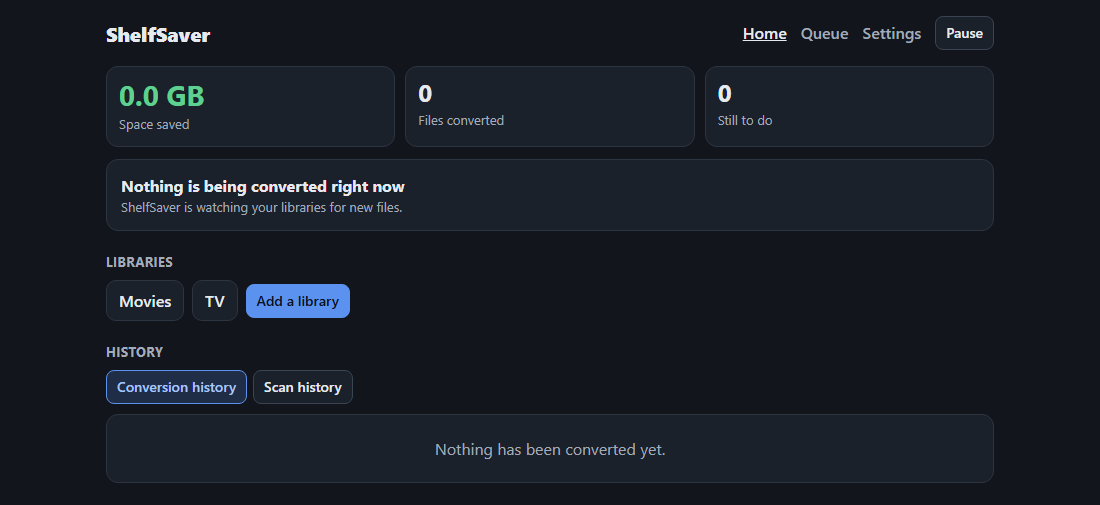
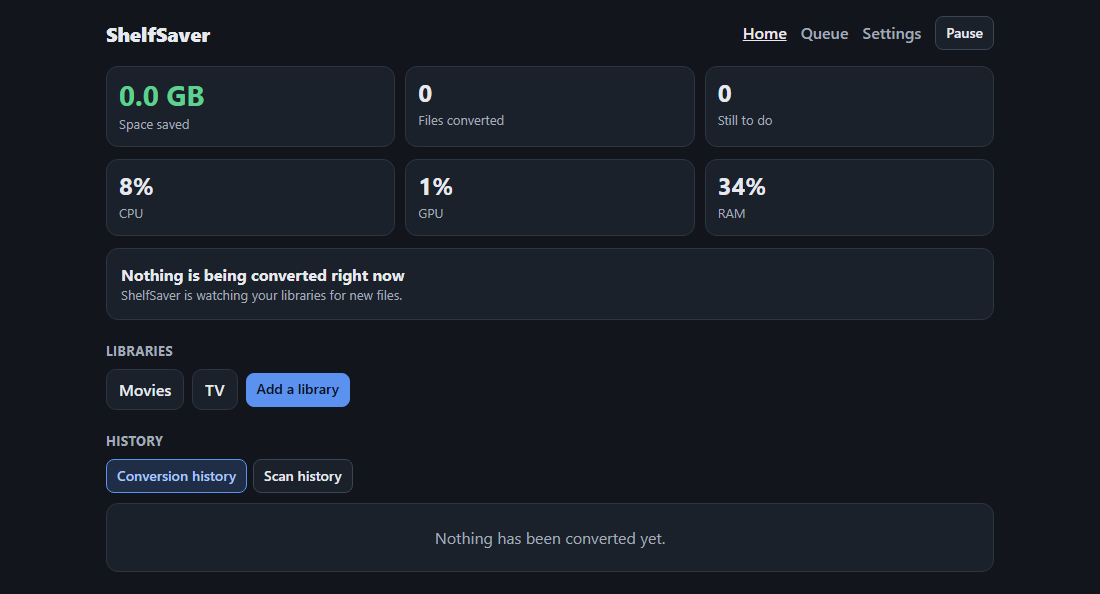
feat: show CPU, GPU and RAM use on the home page
The GPU tile shows the busier of the card and its video encoder, since
encoding barely registers as general GPU use. Update the home screenshot.

Claude-Session: https://claude.ai/code/session_01QBBJMtbGH3UxseRLgyoGMi

diff --git a/shelfsaver/web/static/index.html b/shelfsaver/web/static/index.html
@@ -31,6 +31,11 @@
     <div class="stat"><b id="stat-converted">&ndash;</b><span>Files converted</span></div>
     <div class="stat"><b id="stat-remaining">&ndash;</b><span>Still to do</span></div>
   </section>
+  <section class="stats" aria-label="This PC right now">
+    <div class="stat"><b id="stat-cpu">&ndash;</b><span>CPU</span></div>
+    <div class="stat" title="The busier of the graphics card and its video encoder"><b id="stat-gpu">&ndash;</b><span>GPU</span></div>
+    <div class="stat"><b id="stat-ram">&ndash;</b><span>RAM</span></div>
+  </section>
   <section id="now" class="card" aria-live="polite"></section>
   <h2>Libraries</h2>
   <div class="libs" id="libs"></div>

diff --git a/shelfsaver/web/static/app.js b/shelfsaver/web/static/app.js
@@ -816,7 +816,19 @@
       }, function () { /* offline: the notice is already showing */ });
     }
 
+    function drawUse(use) {
+      ['cpu', 'gpu', 'ram'].forEach(function (name) {
+        var value = use[name];
+        byId('stat-' + name).textContent = value === null || value === undefined ? '–' : value + '%';
+      });
+    }
+
+    function refreshUse() {
+      return api('GET', '/api/system').then(drawUse, function () { drawUse({}); });
+    }
+
     every(refresh);
+    every(refreshUse);
   }
 
   // ---- The queue

diff --git a/shelfsaver/system_usage.py b/shelfsaver/system_usage.py
@@ -1,0 +1,84 @@
+"""How busy this PC is right now, for the tiles on the home page."""
+from __future__ import annotations
+
+import ctypes
+import threading
+import time
+from ctypes import wintypes
+from typing import Optional
+
+from .mcp_server import _run_tool
+
+CACHE_SECONDS = 1.5  # just under the pages' refresh, so several open pages share one reading
+FIRST_CPU_SAMPLE_SECONDS = 0.2
+
+_now = time.monotonic
+
+
+class _MemoryStatus(ctypes.Structure):
+    _fields_ = [("dwLength", wintypes.DWORD), ("dwMemoryLoad", wintypes.DWORD),
+                ("ullTotalPhys", ctypes.c_ulonglong), ("ullAvailPhys", ctypes.c_ulonglong),
+                ("ullTotalPageFile", ctypes.c_ulonglong), ("ullAvailPageFile", ctypes.c_ulonglong),
+                ("ullTotalVirtual", ctypes.c_ulonglong), ("ullAvailVirtual", ctypes.c_ulonglong),
+                ("ullAvailExtendedVirtual", ctypes.c_ulonglong)]
+
+
+def ram_percent() -> Optional[int]:
+    status = _MemoryStatus()
+    status.dwLength = ctypes.sizeof(status)
+    if not ctypes.windll.kernel32.GlobalMemoryStatusEx(ctypes.byref(status)):
+        return None
+    return int(status.dwMemoryLoad)
+
+
+def gpu_percent() -> Optional[int]:
+    """The busier of the card and its video encoder: encoding barely shows as general GPU use."""
+    out = _run_tool(["nvidia-smi", "--query-gpu=utilization.gpu,utilization.encoder",
+                     "--format=csv,noheader,nounits"])
+    lines = (out or "").strip().splitlines()
+    if not lines:
+        return None
+    numbers = [int(part) for part in lines[0].split(",") if part.strip().isdigit()]
+    return max(numbers) if numbers else None
+
+
+def _cpu_times() -> Optional[tuple[int, int]]:
+    """(idle, total) processor time since the PC started. Kernel time already includes idle."""
+    idle, kernel, user = wintypes.FILETIME(), wintypes.FILETIME(), wintypes.FILETIME()
+    if not ctypes.windll.kernel32.GetSystemTimes(ctypes.byref(idle), ctypes.byref(kernel),
+                                                 ctypes.byref(user)):
+        return None
+
+    def ticks(value):
+        return (value.dwHighDateTime << 32) | value.dwLowDateTime
+
+    return ticks(idle), ticks(kernel) + ticks(user)
+
+
+class SystemUsage:
+    def __init__(self) -> None:
+        self._lock = threading.Lock()
+        self._last_cpu = None
+        self._cached = None
+        self._cached_at = 0.0
+
+    def _cpu_percent(self) -> Optional[int]:
+        now = _cpu_times()
+        if self._last_cpu is None and now is not None:
+            self._last_cpu = now
+            time.sleep(FIRST_CPU_SAMPLE_SECONDS)
+            now = _cpu_times()
+        if now is None or self._last_cpu is None:
+            return None
+        idle = now[0] - self._last_cpu[0]
+        total = now[1] - self._last_cpu[1]
+        self._last_cpu = now
+        return round(100 * (total - idle) / total) if total > 0 else None
+
+    def read(self) -> dict:
+        with self._lock:
+            if self._cached is None or _now() - self._cached_at >= CACHE_SECONDS:
+                self._cached = {"cpu": self._cpu_percent(), "gpu": gpu_percent(),
+                                "ram": ram_percent()}
+                self._cached_at = _now()
+            return self._cached

diff --git a/tests/test_system_usage.py b/tests/test_system_usage.py
@@ -1,0 +1,85 @@
+"""CPU, GPU and RAM use for the tiles on the home page."""
+from __future__ import annotations
+
+import pytest
+
+from shelfsaver import system_usage as su
+
+
+def _smi(monkeypatch, output):
+    calls = []
+
+    def run(args):
+        calls.append(args)
+        return output
+
+    monkeypatch.setattr(su, "_run_tool", run)
+    return calls
+
+
+@pytest.mark.parametrize("output,expected", [
+    ("7, 93\n", 93),      # encoding barely shows as general GPU use
+    ("80, 12\n", 80),
+    ("0, 0\n", 0),
+    ("41, [N/A]\n", 41),  # a card that doesn't report its encoder
+    ("[N/A], [N/A]\n", None),
+    ("", None),
+    (None, None),         # nvidia-smi can't run
+    ("not a number\n", None),
+])
+def test_gpu_is_the_busier_of_the_card_and_its_encoder(monkeypatch, output, expected):
+    _smi(monkeypatch, output)
+    assert su.gpu_percent() == expected
+
+
+def test_gpu_asks_for_both_numbers_in_plain_form(monkeypatch):
+    calls = _smi(monkeypatch, "1, 2\n")
+    su.gpu_percent()
+    assert calls == [["nvidia-smi", "--query-gpu=utilization.gpu,utilization.encoder",
+                      "--format=csv,noheader,nounits"]]
+
+
+def test_ram_comes_from_windows():
+    assert 0 < su.ram_percent() <= 100
+
+
+def test_cpu_times_come_from_windows():
+    idle, total = su._cpu_times()
+    assert 0 <= idle <= total and total > 0
+
+
+def _quiet_usage(monkeypatch, times):
+    samples = iter(times)
+    monkeypatch.setattr(su, "_cpu_times", lambda: next(samples))
+    monkeypatch.setattr(su, "gpu_percent", lambda: 5)
+    monkeypatch.setattr(su, "ram_percent", lambda: 6)
+    monkeypatch.setattr(su.time, "sleep", lambda seconds: None)
+    clock = [1000.0]
+    monkeypatch.setattr(su, "_now", lambda: clock[0])
+    return su.SystemUsage(), clock
+
+
+def test_cpu_is_the_busy_share_since_the_last_reading(monkeypatch):
+    usage, clock = _quiet_usage(monkeypatch, [(100, 200), (150, 300), (150, 400)])
+    assert usage.read() == {"cpu": 50, "gpu": 5, "ram": 6}
+    clock[0] += su.CACHE_SECONDS
+    assert usage.read()["cpu"] == 100
+
+
+def test_cpu_with_no_time_passed_or_no_reading_is_unknown(monkeypatch):
+    usage, clock = _quiet_usage(monkeypatch, [(100, 200), (100, 200), None])
+    assert usage.read()["cpu"] is None
+    clock[0] += su.CACHE_SECONDS
+    assert usage.read()["cpu"] is None
+
+
+def test_readings_are_shared_for_a_moment(monkeypatch):
+    usage, clock = _quiet_usage(monkeypatch, [(1, 2), (2, 4), (3, 6)])
+    gpu = []
+    monkeypatch.setattr(su, "gpu_percent", lambda: gpu.append(1) or 5)
+    usage.read()
+    usage.read()
+    assert len(gpu) == 1
+    clock[0] += su.CACHE_SECONDS
+    usage.read()
+    assert len(gpu) == 2

diff --git a/shelfsaver/web/app.py b/shelfsaver/web/app.py
@@ -28,6 +28,7 @@ from .. import swap
 from ..db import ensure_mcp_token
 from ..mcp_server import McpGate, build_mcp, mcp_transport_security
 from ..models import IGNORED_REASON
+from ..system_usage import SystemUsage
 from ..worker import _format_name
 
 logger = logging.getLogger(__name__)
@@ -408,6 +409,12 @@ def create_app(db, worker, scanner, config) -> FastAPI:
             "offline_libraries": [{"id": l.id, "name": l.name}
                                   for l in db.list_libraries() if l.status == "offline"],
         }
+
+    system_usage = SystemUsage()
+
+    @api.get("/system")
+    def system():
+        return system_usage.read()
 
     @api.post("/pause")
     def pause():

diff --git a/tests/test_web.py b/tests/test_web.py
@@ -478,6 +478,16 @@ def test_history_uses_the_files_reason(authed, parts, tmp_path):
     assert row["status"] == "failed" and row["reason"] == "The conversion failed"
 
 
+def test_system_use_needs_sign_in(client):
+    assert client.get("/api/system").status_code == 401
+
+
+def test_system_use_reports_each_number(authed, monkeypatch):
+    monkeypatch.setattr(app_module.SystemUsage, "read",
+                        lambda self: {"cpu": 12, "gpu": None, "ram": 34})
+    assert authed.get("/api/system").json() == {"cpu": 12, "gpu": None, "ram": 34}
+
+
 def test_file_details_hides_internal_fields(authed, parts, tmp_path):
     db, *_ = parts
     lib, f, run = seed_run(db, tmp_path)

diff --git a/shelfsaver/mcp_server.py b/shelfsaver/mcp_server.py
@@ -39,7 +39,8 @@ def _run_tool(args: list[str]) -> Optional[str]:
     """Run a tool with an argument list and a short timeout. None if it can't run."""
     try:
         done = subprocess.run(args, capture_output=True, text=True, timeout=PROBE_TIMEOUT,
-                              encoding="utf-8", errors="replace")
+                              encoding="utf-8", errors="replace",
+                              creationflags=getattr(subprocess, "CREATE_NO_WINDOW", 0))
     except (OSError, subprocess.SubprocessError):
         return None
     return (done.stdout or "") if done.returncode == 0 else None
